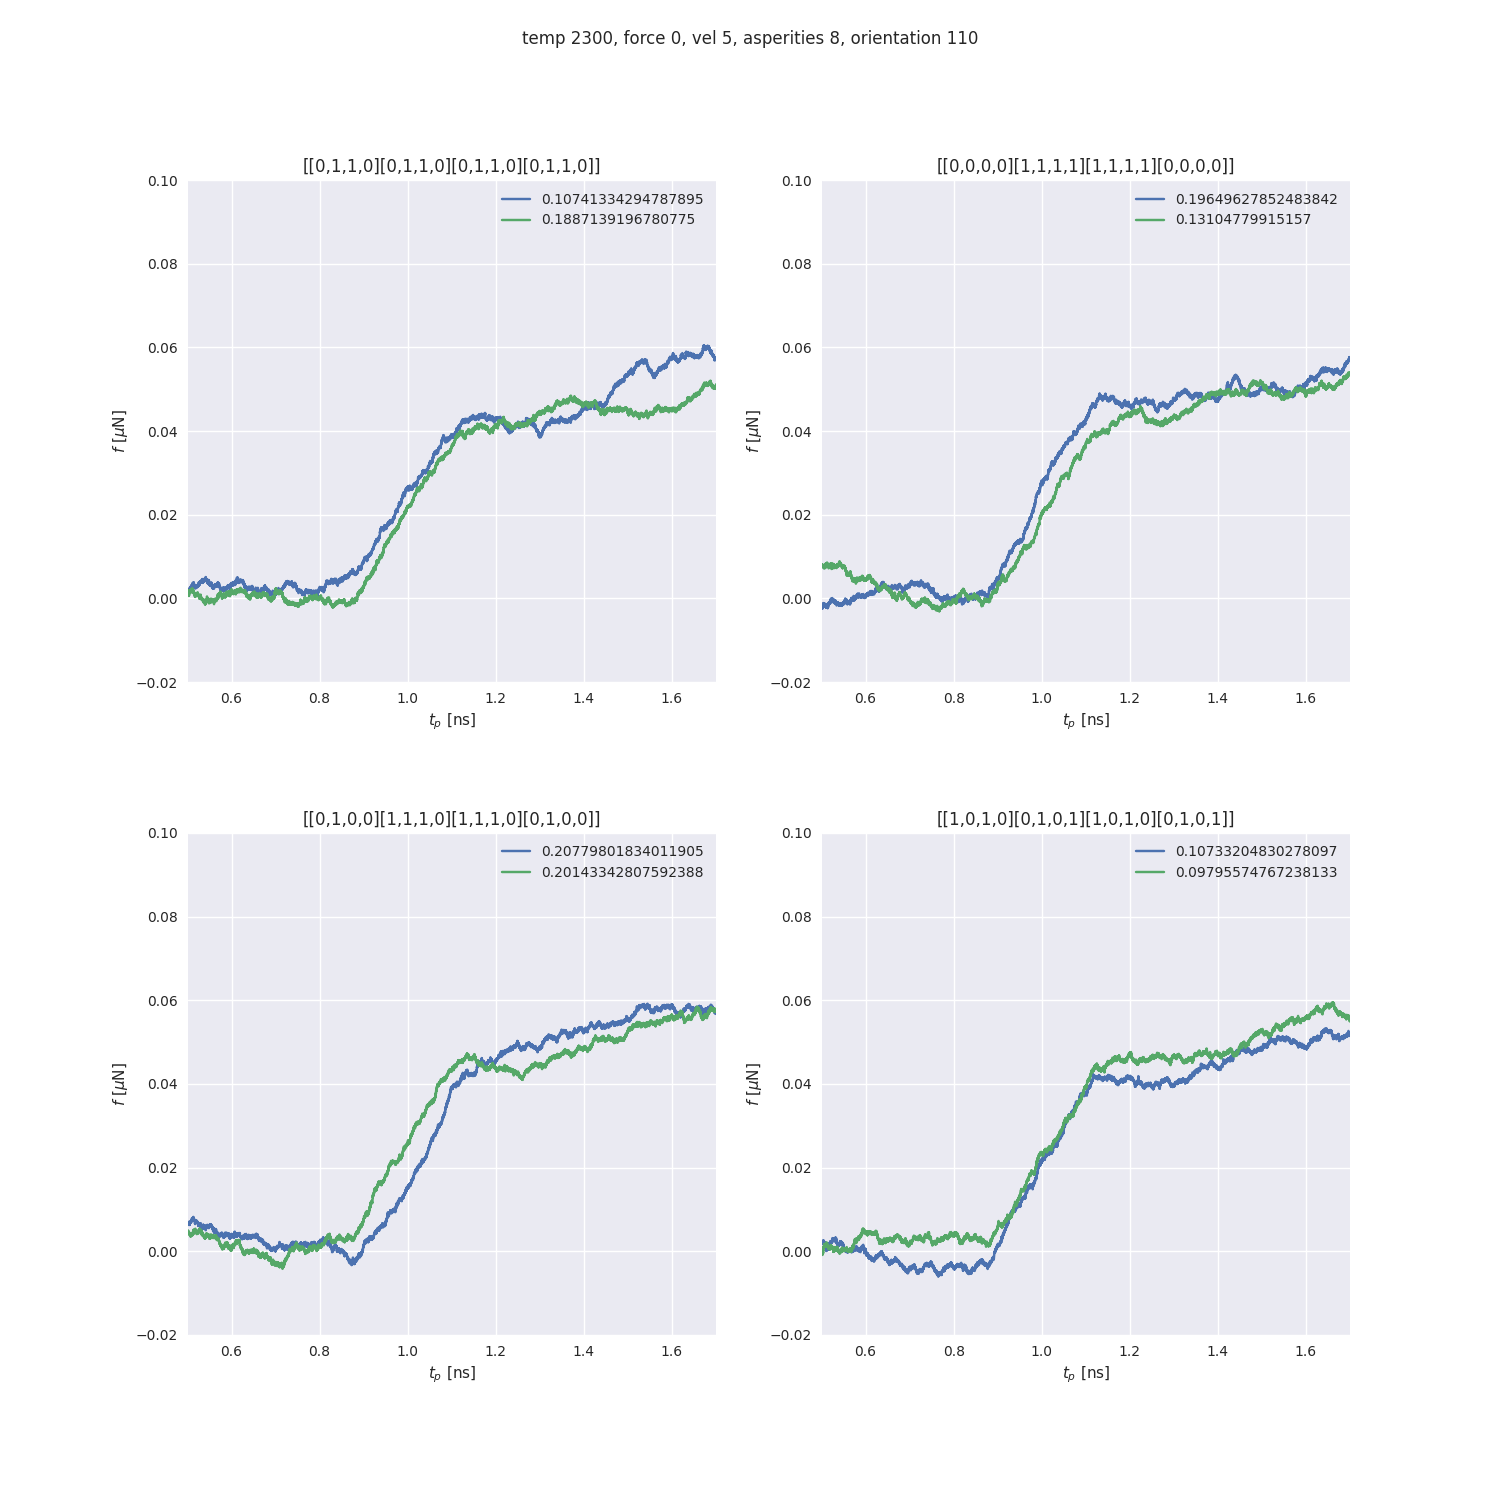
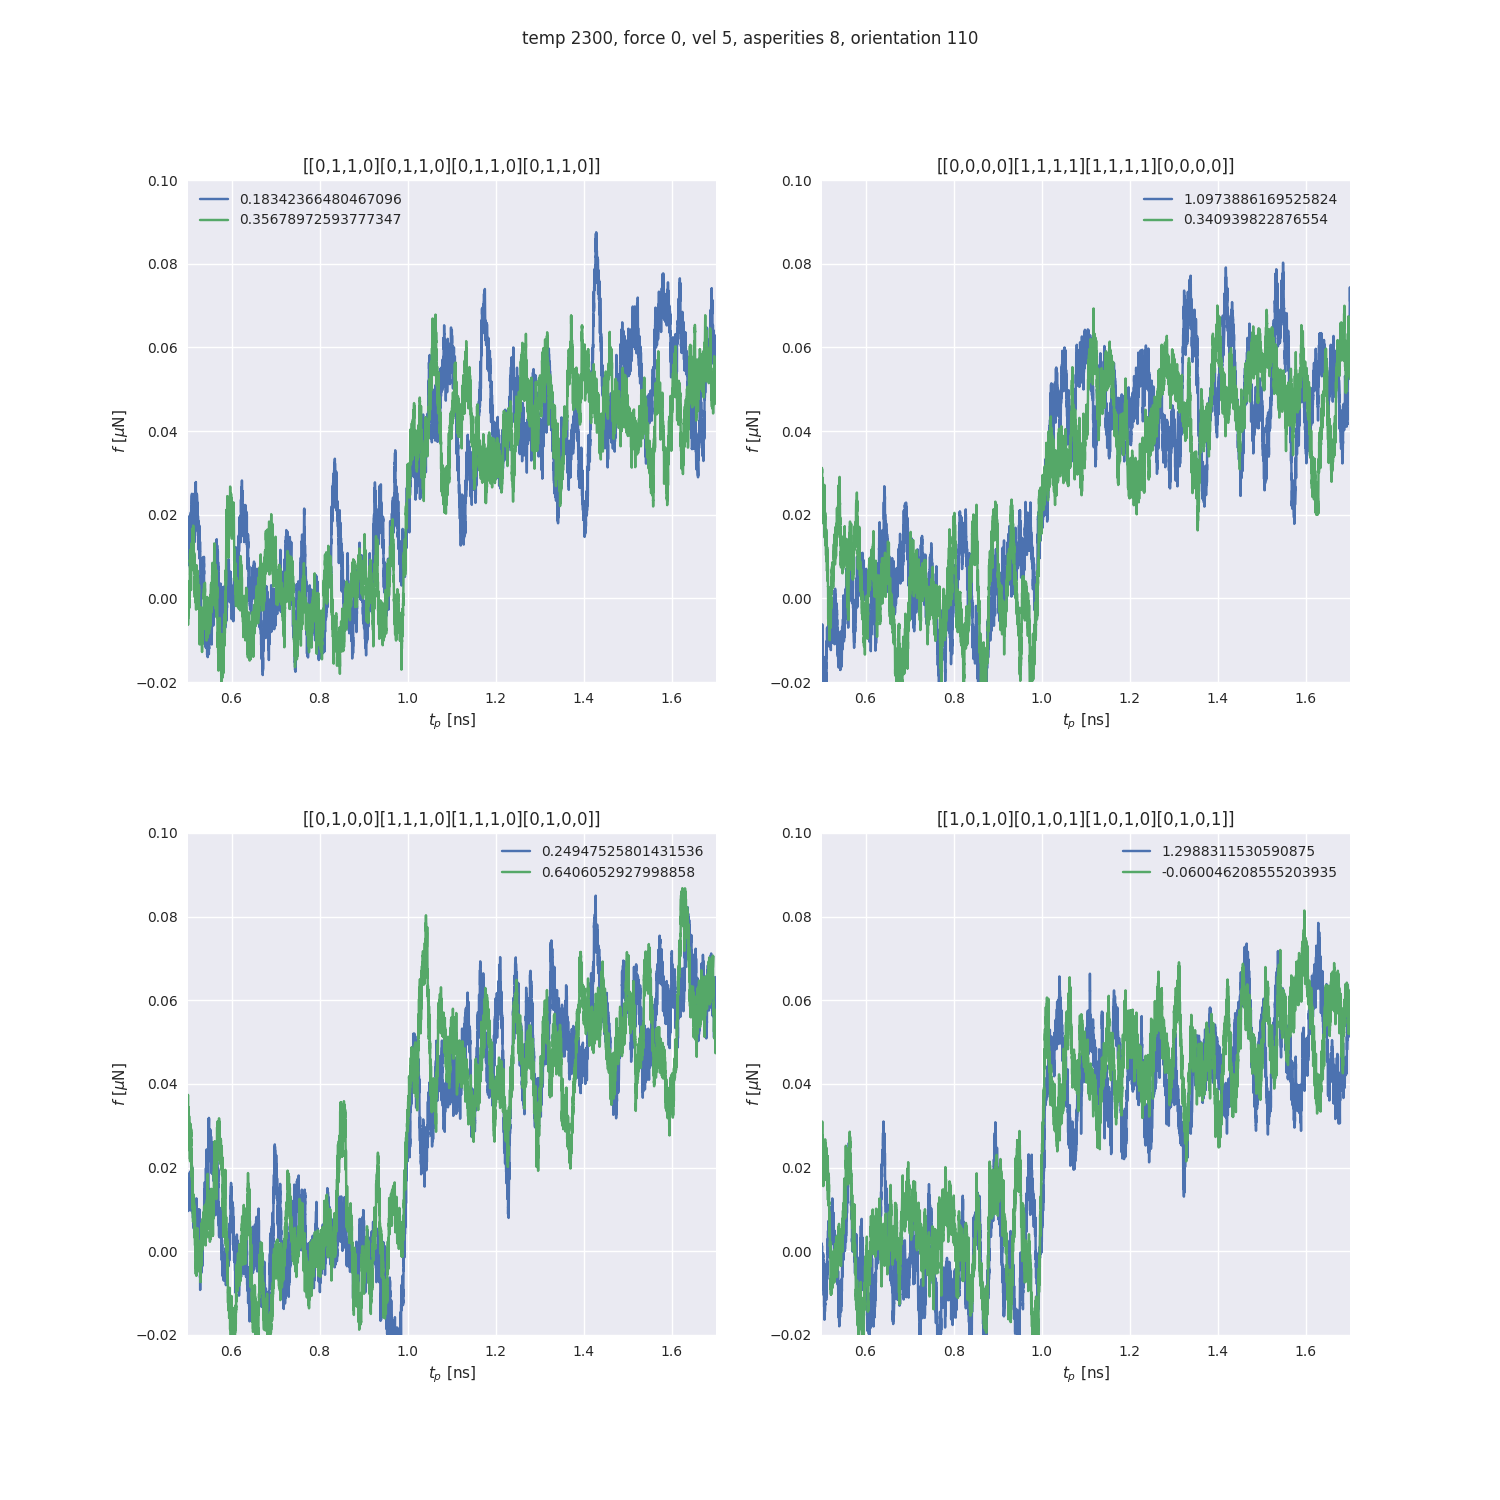
fuck this

diff --git a/python/plot/plot_load_curves.py b/python/plot/plot_load_curves.py
@@ -519,10 +519,10 @@ def plot_production(temp, vel, force, uc, asperities, time, orientation, grid, e
             print(p0)
             try:
                 popt, pcov = curve_fit(sigmoid, time_nnan, load_curve_nnan,p0, method='dogbox')
+                axs[i].plot(time_nnan, sigmoid(time_nnan, *popt), label = 'sigmoid fit')
             except:
                 print('skipped \n \n')
                 continue #skip this loop iteration
-            axs[i].plot(time_nnan, sigmoid(time_nnan, *popt))
 
         for ms in ms_all:
             axs[i].plot(ms[0], ms[1], 'o') #this is just proprietary

diff --git a/python/post/get_load_curves.py b/python/post/get_load_curves.py
@@ -75,7 +75,7 @@ def all_curves(production = True):
     time = 2000 
     init_time = 0
     orientation = 110
-    window = 6000
+    window = 500
     #initnum = 0
     force = 0
 
